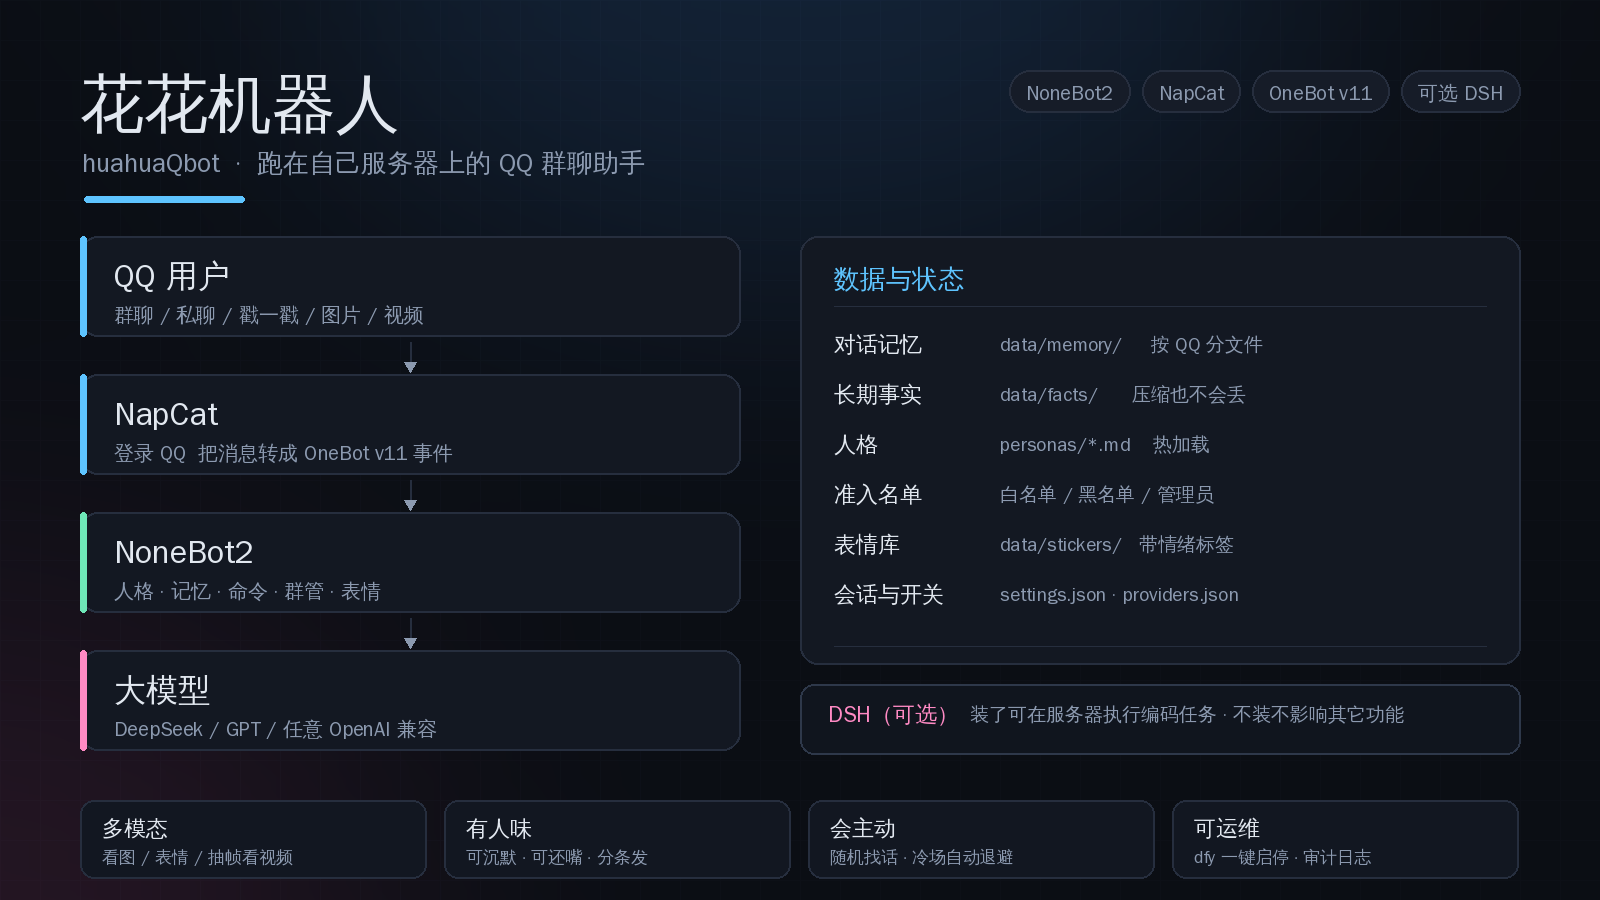
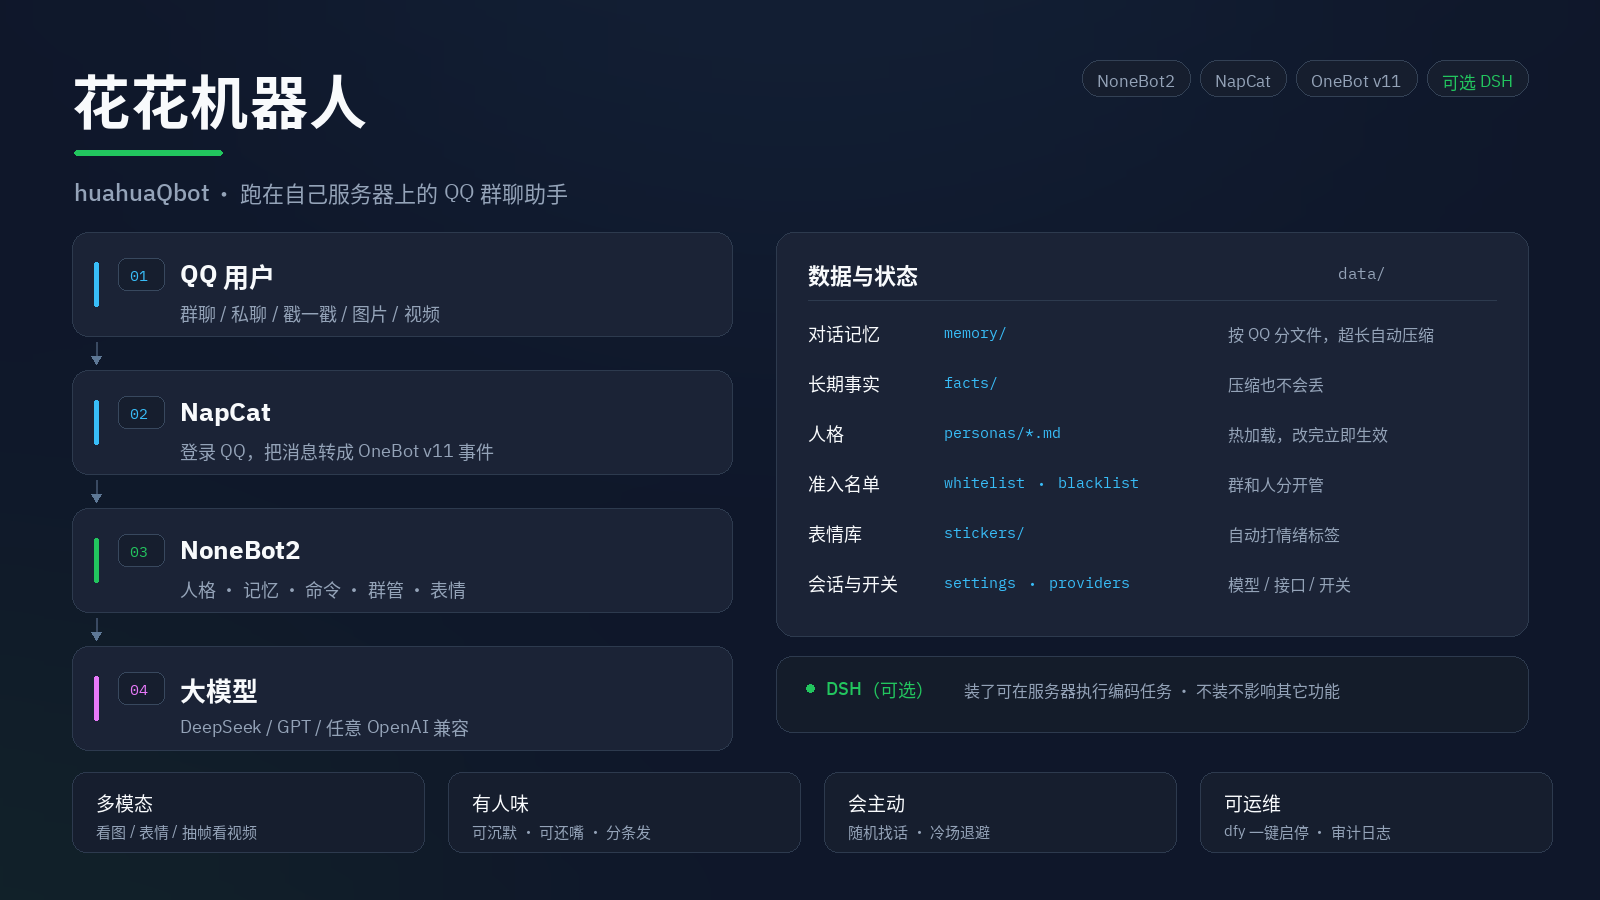
展示图改用 IBM Plex + Noto Sans CJK，附生成脚本

diff --git a/docs/make_cover.py b/docs/make_cover.py
@@ -1,0 +1,176 @@
+import re
+from PIL import Image, ImageDraw, ImageFont, ImageFilter
+
+W, H = 1600, 900
+BG      = (15, 23, 42)
+CARD    = (27, 35, 54)
+CARD2   = (22, 30, 46)
+BORDER  = (71, 85, 105)
+TEXT    = (248, 250, 252)
+MUTED   = (148, 163, 184)
+ACCENT  = (34, 197, 94)
+BLUE    = (56, 189, 248)
+PINK    = (232, 121, 249)
+
+PLEX = "/usr/share/fonts/truetype/ibm-plex/IBMPlexSans-%s.ttf"
+MONO = "/usr/share/fonts/truetype/ibm-plex/IBMPlexMono-%s.ttf"
+CJK  = "/usr/share/fonts/opentype/noto/NotoSansCJK-%s.ttc"
+CJK_INDEX = 2
+
+_cache = {}
+def lf(weight, size):
+    k = ("l", weight, size)
+    if k not in _cache:
+        _cache[k] = ImageFont.truetype(PLEX % weight, size)
+    return _cache[k]
+
+def mf(weight, size):
+    k = ("m", weight, size)
+    if k not in _cache:
+        _cache[k] = ImageFont.truetype(MONO % weight, size)
+    return _cache[k]
+
+def cf(weight, size):
+    real = "Bold" if weight == "Bold" else "Regular"
+    k = ("c", real, size)
+    if k not in _cache:
+        _cache[k] = ImageFont.truetype(CJK % real, size, index=CJK_INDEX)
+    return _cache[k]
+
+RUN = re.compile(r"[\x00-\x7f]+|[^\x00-\x7f]+")
+
+def draw_mixed(d, xy, text, cjk_weight, size, fill, latin_weight=None, mono=False, tracking=0):
+    """拉丁用 Plex / 等宽用 Plex Mono，中文用 Noto Sans CJK SC。"""
+    latin_weight = latin_weight or cjk_weight
+    x, y = xy
+    for part in RUN.findall(text):
+        ascii_run = part.isascii()
+        if mono and ascii_run:
+            font = mf("Regular" if cjk_weight == "Regular" else "Medium", size)
+        elif ascii_run:
+            font = lf(latin_weight, size)
+        else:
+            font = cf(cjk_weight, size)
+        if tracking and not ascii_run:
+            for ch in part:
+                d.text((x, y), ch, font=font, fill=fill)
+                x += d.textlength(ch, font=font) + tracking
+        else:
+            d.text((x, y), part, font=font, fill=fill)
+            x += d.textlength(part, font=font)
+    return x
+
+def mixed_len(d, text, cjk_weight, size, latin_weight=None, mono=False):
+    latin_weight = latin_weight or cjk_weight
+    total = 0
+    for part in RUN.findall(text):
+        if mono and part.isascii():
+            f = mf("Medium", size)
+        elif part.isascii():
+            f = lf(latin_weight, size)
+        else:
+            f = cf(cjk_weight, size)
+        total += d.textlength(part, font=f)
+    return total
+
+def rbox(xy, r=16, fill=CARD, outline=BORDER, width=1):
+    d.rounded_rectangle(xy, radius=r, fill=fill, outline=outline, width=width)
+
+img = Image.new("RGB", (W, H), BG)
+d = ImageDraw.Draw(img)
+
+# 顶部极淡光晕
+glow = Image.new("RGB", (W, H), BG)
+gd = ImageDraw.Draw(glow)
+gd.ellipse([W // 2 - 560, -420, W // 2 + 560, 220], fill=(23, 42, 66))
+gd.ellipse([-320, H - 260, 420, H + 220], fill=(21, 46, 40))
+glow = glow.filter(ImageFilter.GaussianBlur(190))
+img = Image.blend(img, glow, 0.5)
+d = ImageDraw.Draw(img)
+
+# ===== Header =====
+draw_mixed(d, (72, 56), "花花机器人", "Bold", 58, TEXT, tracking=1.2)
+d.rounded_rectangle([74, 150, 222, 155], radius=3, fill=ACCENT)
+draw_mixed(d, (74, 176), "huahuaQbot", "Regular", 24, MUTED, latin_weight="Medium")
+draw_mixed(d, (208, 176), " · 跑在自己服务器上的 QQ 群聊助手", "Regular", 22, MUTED)
+
+# 右上 tags
+tags = [("NoneBot2", False), ("NapCat", False), ("OneBot v11", False), ("可选 DSH", True)]
+tx = W - 72
+for label, hot in tags[::-1]:
+    tw = mixed_len(d, label, "Regular", 17) + 30
+    tx -= tw
+    rbox([tx, 60, tx + tw, 96], r=18, fill=CARD2, outline=(51, 65, 85))
+    draw_mixed(d, (tx + 15, 69), label, "Regular", 17, ACCENT if hot else MUTED)
+    tx -= 10
+
+# ===== 左：流程 =====
+steps = [
+    ("01", "QQ 用户", "群聊 / 私聊 / 戳一戳 / 图片 / 视频", BLUE),
+    ("02", "NapCat", "登录 QQ，把消息转成 OneBot v11 事件", BLUE),
+    ("03", "NoneBot2", "人格 · 记忆 · 命令 · 群管 · 表情", ACCENT),
+    ("04", "大模型", "DeepSeek / GPT / 任意 OpenAI 兼容", PINK),
+]
+bx, bw, bh, gap, top = 72, 660, 104, 34, 232
+for i, (num, title, sub, color) in enumerate(steps):
+    y = top + i * (bh + gap)
+    rbox([bx, y, bx + bw, y + bh], r=16, fill=CARD, outline=(45, 58, 78))
+    d.rounded_rectangle([bx + 22, y + 30, bx + 26, y + bh - 30], radius=2, fill=color)
+
+    nb = [bx + 46, y + 26, bx + 92, y + 58]
+    d.rounded_rectangle(nb, radius=8, fill=CARD2, outline=(56, 72, 94))
+    draw_mixed(d, (nb[0] + 12, y + 33), num, "Regular", 15, color, mono=True)
+
+    draw_mixed(d, (bx + 108, y + 24), title, "Bold", 26, TEXT)
+    draw_mixed(d, (bx + 108, y + 68), sub, "Regular", 18, MUTED)
+
+    if i < len(steps) - 1:
+        cx = bx + 24
+        ay = y + bh + 6
+        by = y + bh + gap - 6
+        d.line([(cx, ay), (cx, by - 6)], fill=(58, 74, 98), width=2)
+        d.polygon([(cx - 5, by - 8), (cx + 5, by - 8), (cx, by)], fill=(94, 120, 150))
+
+# ===== 右：数据面板 =====
+px, pw = 776, 752
+rbox([px, 232, px + pw, 636], r=18, fill=CARD, outline=(45, 58, 78))
+draw_mixed(d, (px + 32, 258), "数据与状态", "Bold", 22, TEXT)
+draw_mixed(d, (px + pw - 190, 262), "data/", "Regular", 16, MUTED, mono=True)
+d.line([(px + 32, 300), (px + pw - 32, 300)], fill=(45, 58, 78), width=1)
+
+rows = [
+    ("对话记忆", "memory/", "按 QQ 分文件，超长自动压缩"),
+    ("长期事实", "facts/", "压缩也不会丢"),
+    ("人格", "personas/*.md", "热加载，改完立即生效"),
+    ("准入名单", "whitelist · blacklist", "群和人分开管"),
+    ("表情库", "stickers/", "自动打情绪标签"),
+    ("会话与开关", "settings · providers", "模型 / 接口 / 开关"),
+]
+for i, (k, mono, note) in enumerate(rows):
+    y = 320 + i * 50
+    draw_mixed(d, (px + 32, y), k, "Medium", 18, TEXT)
+    draw_mixed(d, (px + 168, y + 2), mono, "Regular", 15, BLUE, mono=True)
+    draw_mixed(d, (px + 452, y + 2), note, "Regular", 16, MUTED)
+
+# DSH 可选
+rbox([px, 656, px + pw, 732], r=16, fill=(20, 28, 42), outline=(45, 58, 78))
+d.ellipse([px + 30, 684, px + 38, 692], fill=ACCENT)
+draw_mixed(d, (px + 50, 676), "DSH（可选）", "Medium", 18, ACCENT)
+draw_mixed(d, (px + 188, 678), "装了可在服务器执行编码任务 · 不装不影响其它功能", "Regular", 16, MUTED)
+
+# ===== 底部特性 =====
+feats = [
+    ("多模态", "看图 / 表情 / 抽帧看视频"),
+    ("有人味", "可沉默 · 可还嘴 · 分条发"),
+    ("会主动", "随机找话 · 冷场退避"),
+    ("可运维", "dfy 一键启停 · 审计日志"),
+]
+fy, fw, fgap = 772, 352, 24
+for i, (k, v) in enumerate(feats):
+    x = 72 + i * (fw + fgap)
+    rbox([x, fy, x + fw, fy + 80], r=14, fill=CARD2, outline=(45, 58, 78))
+    draw_mixed(d, (x + 24, fy + 16), k, "Medium", 19, TEXT)
+    draw_mixed(d, (x + 24, fy + 48), v, "Regular", 15, MUTED)
+
+img.save("docs/architecture.png")
+print("saved", img.size)
